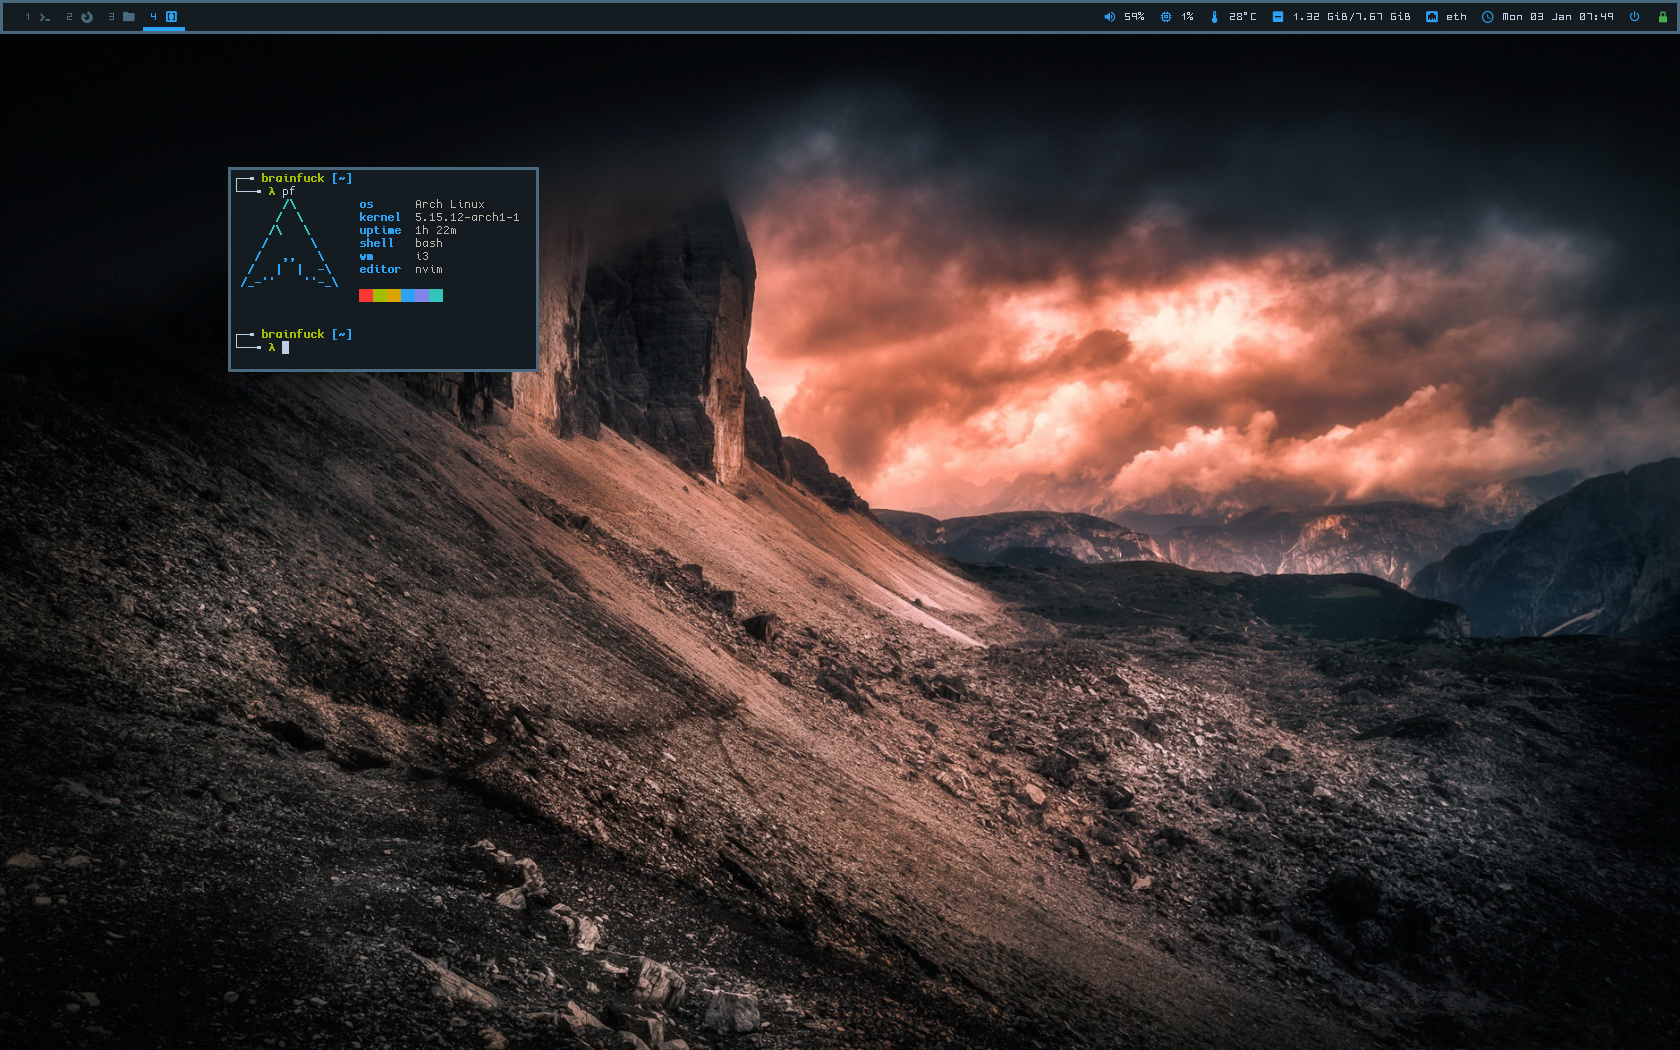
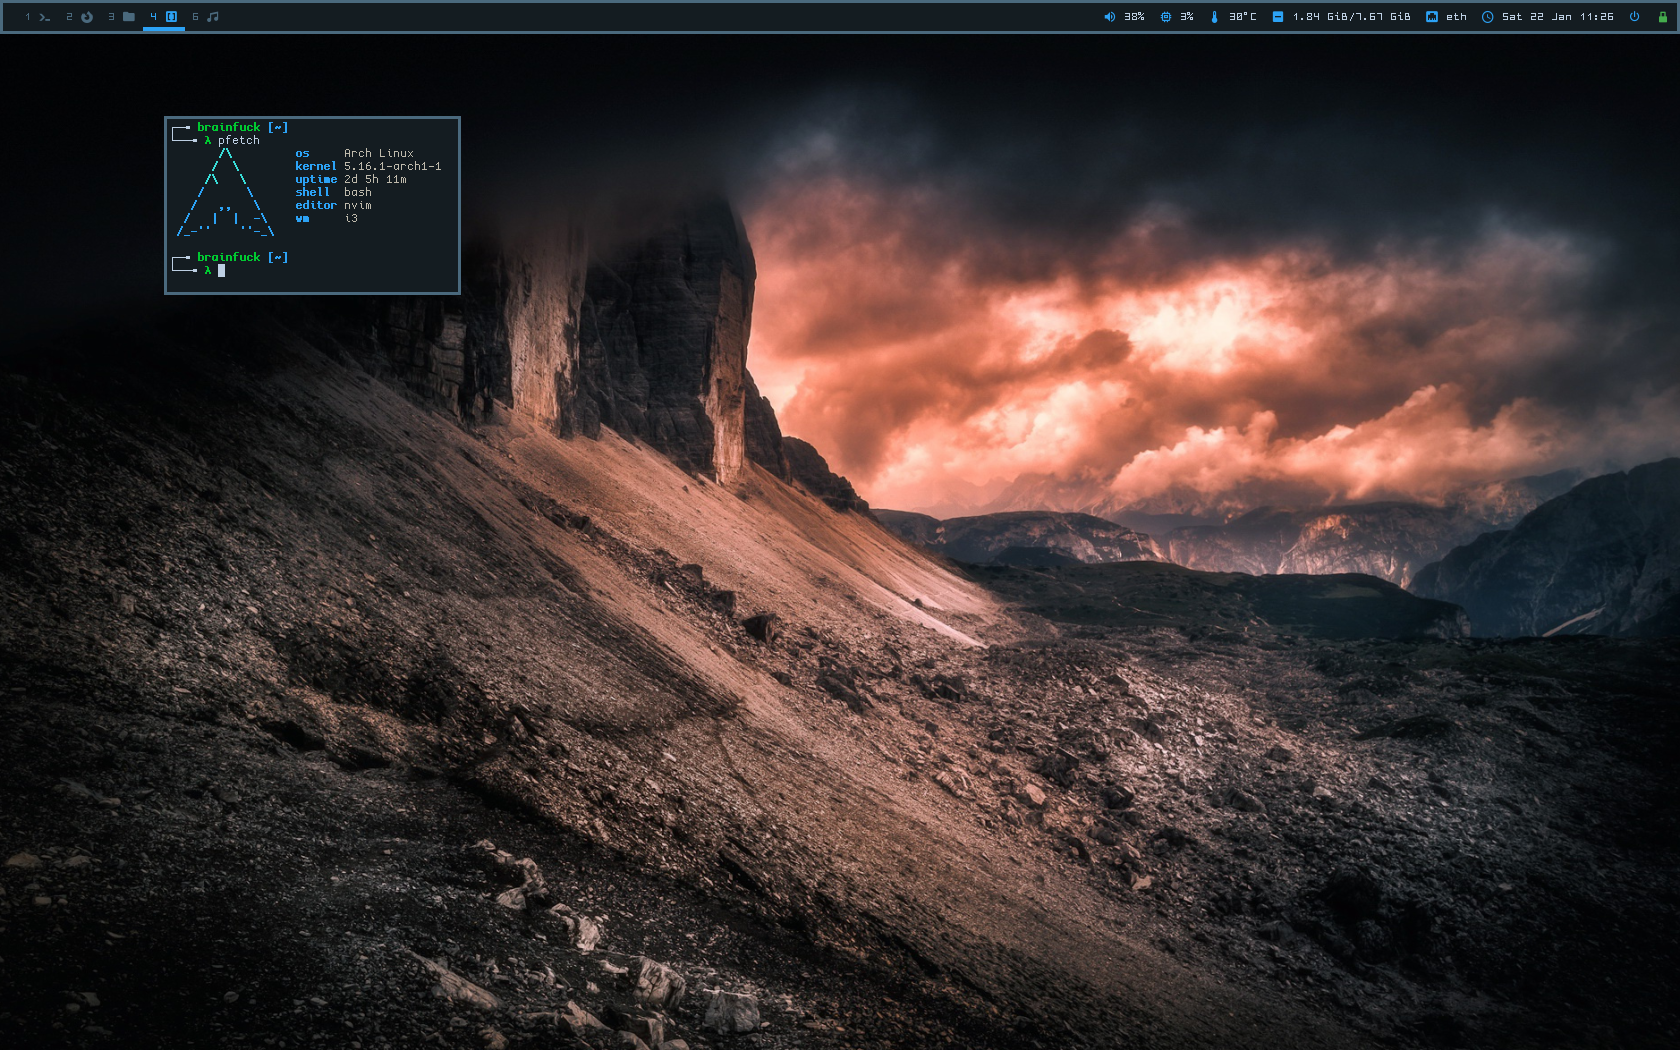
Update screenshots

Changed region(s): [[0.0929, 0.0914, 0.3405, 0.3657]]

diff --git a/README.md b/README.md
@@ -4,10 +4,16 @@
 
 ![.](img/1-selfie.png)
 
-![.](img/2-fake-dirty.png)
+![.](img/2-dirty.png)
 
-### Setup
------
+![.](img/3-rofi_ncmpcpp.png)
+
+![.](img/4-zathura.png)
+
+---
+
+### Setup:
+
 ```
 Window Manager      > i3-gaps
 Bar                 > polybar
